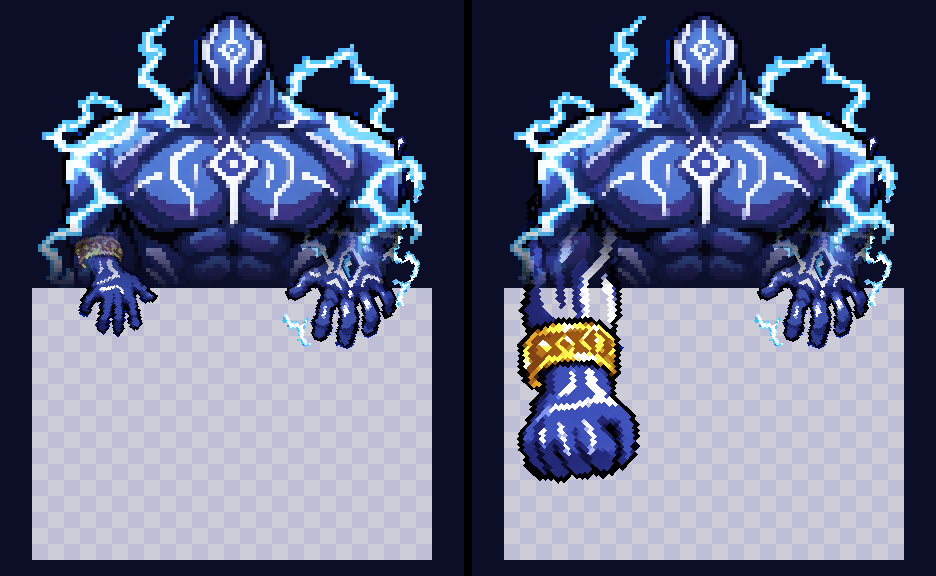
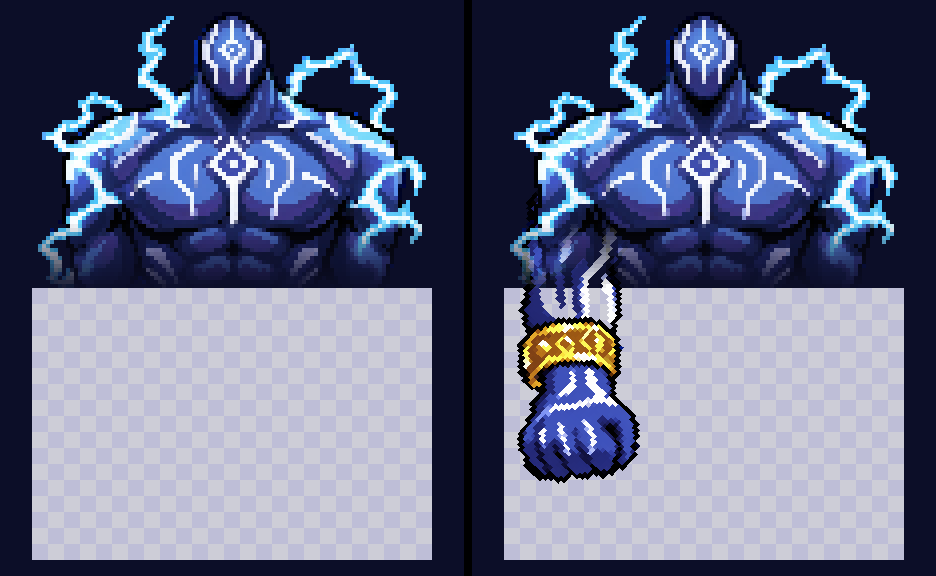
Holy giant: arms only come out for its attacks
Claude-Session: https://claude.ai/code/session_012M3rhPDTM1aAWScAh2m7cE

diff --git a/core/src/main/java/com/shatteredpixel/shatteredpixeldungeon/sprites/HolyGiantSprite.java b/core/src/main/java/com/shatteredpixel/shatteredpixeldungeon/sprites/HolyGiantSprite.java
@@ -13,10 +13,10 @@ import com.watabou.utils.PointF;
 /**
  * Seven Sins (Nov 18 2026, owner's second design): the holy giant towering over the void that fills the upper half of
  * floor 31. The armless body (sprites/heaven_giant_body.png, x GiantArt.BODY_ZOOM) stands on the ledge cell and rises
- * through the void; the two arms (sprites/heaven_giant_arms.png: the lightning arm on the left, the gold bracelet arm
- * on the right) are separate pictures drawn behind it, turned and scaled from the shoulder to wherever the hand is:
- * resting on the ledge, raised over the tile it is about to slam (open hand), or lying on the floor as a fist while
- * the {@link GiantFist} is down. Everything is read from the {@link HolyGiant} each frame.
+ * through the void; the two arms (sprites/heaven_giant_arms.png: the gold bracelet arm on the left, the lightning arm
+ * on the right) are separate pictures drawn behind it, turned and scaled from the shoulder to wherever the hand is.
+ * At rest only the body shows; an arm comes out for a slam: raised over the tile it is about to hit (open hand), then
+ * lying on the floor as a fist while the {@link GiantFist} is down. Everything is read from the {@link HolyGiant} each frame.
  */
 public class HolyGiantSprite extends MobSprite {
 
@@ -26,6 +26,7 @@ public class HolyGiantSprite extends MobSprite {
 	private final PointF[] hand = new PointF[2];
 	private final int[] lastHP = {-1, -1};
 	private final float[] flash = {0, 0};
+	private final boolean[] out = {false, false};
 	private TextureFilm armFilm;
 	private float time = 0;
 
@@ -144,9 +145,16 @@ public class HolyGiantSprite extends MobSprite {
 				want = new PointF(sh.x + (t.x - sh.x) * 0.6f, sh.y + (t.y - sh.y) * 0.6f);
 				pulse = 1.2f + 0.2f * (float) Math.sin(time * 12);
 			} else {
-				frame = s * 2;
-				want = idlePoint(s, g.pos);
-				want.y += (float) Math.sin(time * 1.6f + s) * 1.5f;
+				//at rest only the body shows (owner, Nov 18 2026): the arms come out for the attacks
+				a.visible = false;
+				out[s] = false;
+				continue;
+			}
+			if (!out[s]) {
+				//it bursts out of the void beside the shoulder
+				out[s] = true;
+				PointF sh = shoulder(s, g.pos);
+				hand[s] = new PointF(sh.x + (want.x - sh.x) * 0.25f, sh.y + (want.y - sh.y) * 0.25f);
 			}
 			//the fist comes down fast, everything else drifts
 			float k = Math.min(1f, Game.elapsed * (f != null ? 20f : 8f));

diff --git a/tools/sinsart/make_giant_v2.py b/tools/sinsart/make_giant_v2.py
@@ -219,6 +219,8 @@ def preview(bimg, shoulders, frames, points):
             targets[0] = ((gx - 8 + 0.5) * T, (LEDGE + 9 + 0.5) * T)
             fr[0] = 1
         for side in (0, 1):
+            if pose == "rest" or side == 1:
+                continue    # at rest only the body shows; an arm comes out to slam
             place_arm(c, frames[fr[side]], points[fr[side]], sh[side], targets[side])
         c.alpha_composite(bimg.resize((bw, bh), Image.NEAREST), (int(bx), int(by)))
         out.append(c)

diff --git a/CLAUDE.md b/CLAUDE.md
@@ -496,8 +496,8 @@ Done and pushed (see `git log`):
   (cover blocks shifted with it), view distance 20, and `updateFieldOfView` keeps rows 0..LEDGE in the hero's sight.
   `sprites/HolyGiantSprite` draws the body x`BODY_ZOOM` 4 up from the ledge cell (origin 0,0, `turnTo` ignored, glows while
   `charging()`), and the two arm Images in the level's visuals group (`HolyGiantLevel.visualLayer`: under the mobs, so the body
-  hides the arms' cut ends): each turned and scaled (2.2..3.8) from `shoulder(side)` so its hand sits on: the ledge at rest
-  (`idlePoint`), 60% of the way to the slam target with an open, pulsing hand while telegraphing (`telegraphSide/Cell`), the
+  hides the arms' cut ends): each turned and scaled (2.2..3.8) from `shoulder(side)` so its hand sits on (owner, same day: no arms at rest, only
+  the body; an arm bursts out from 25% of the way when an attack starts): 60% of the way to the slam target with an open, pulsing hand while telegraphing (`telegraphSide/Cell`), the
   fist's tile as a fist while a `GiantFist` is down (fists now use the invisible `HeavenSprites.Blank`; a hit flashes the
   arm). Slam = `armPath`: a straight line from the shoulder's void cell to the hero (rows LEDGE..LEDGE+`ARM_REACH` 10; walls
   stop it; the other arm takes over if this side's is busy), 3 wide across it (`armCells`), the fist on the last free tile
